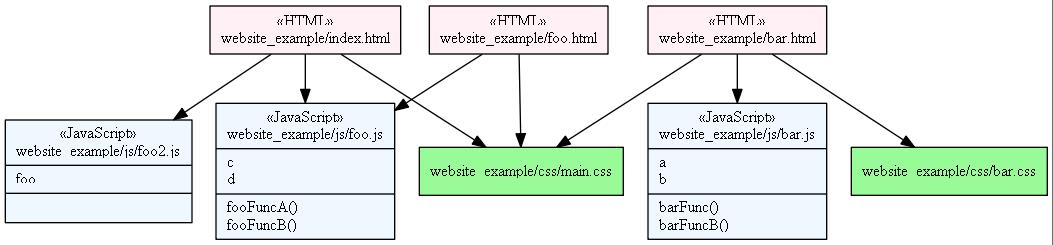
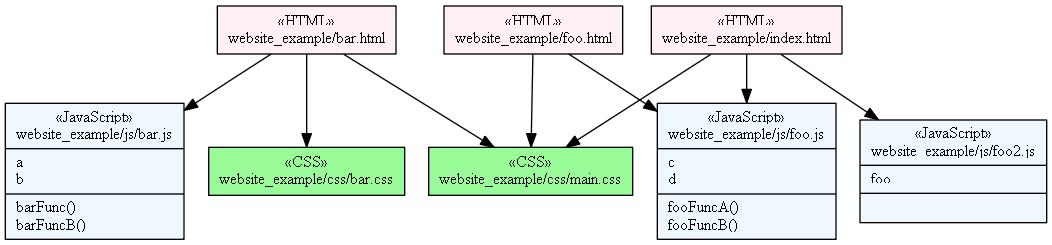
modified example

diff --git a/lib/deps/graphvizClass.js b/lib/deps/graphvizClass.js
@@ -49,7 +49,7 @@ var graphvizClass = module.exports = {
 
 						}
 						if(node.group == 3){
-							g.addNode( node.name, {"fontsize":"12","shape":"record","style":"filled","fillcolor" : "palegreen"} );
+							g.addNode( node.name, {"label":'{&laquo;CSS»\\n'+node.name+'}',"fontsize":"12","shape":"record","style":"filled","fillcolor" : "palegreen"} );
 						}
 						cbmap(null,"");
 					},cb);

diff --git a/README.md b/README.md
@@ -1,14 +1,14 @@
 WAVI
 ===
 
-Web Application Viewer (Node.js)
-```
+###Web Application Viewer (Node.js)
+
 Generate a class diagram graph for node.js web application inspired by the Web Application Extension (WAE) for UML.
 It is also possible to generate a json report listing files and their relations with metrics.
 
 WAVI is intended for developers who wish to document their web application or as a reverse engineering tool to recover 
 the structure of a web application.
-```
+
 
 ## Dependency
 ```
@@ -21,14 +21,14 @@ Require Graphviz installed and PATH variable for Graphviz in your environment.
 ```
 
 ##Usage: 
-```
+
 It is strongly advised to use svg format for very large website because jpg/png/pdf are limited in width and height and will most likly not work
 or use ratio and the quality will be bad.
 
 wavi --format path/to/website path/to/result/file.type
+
+
 ```
-
-
 wavi --svg website_example result/example.svg
 
 wavi --jpg website_example result/example.jpg
@@ -43,11 +43,10 @@ wavi --json website_example result/example.json
 ```
 
 ##Example:
-```
-![Example1](bakunin95.github.com/wavi/example/example.svg)
 
+![Example1](https://raw.github.com/bakunin95/wavi/master/example/example.png)
 run example/example.cmd in node console
-```
+
 
 ##JSON report:
 ```
@@ -56,7 +55,7 @@ compatible with d3.js graph.
 
 example of JSON structure coming soon
 
-##Contribution
+##Contributions
 
 This is a big project to help developers generate quality class diagram. WAVI is in early development and all contributions are welcomed.
 For more info on the project contact me at jugle66@hotmail.com
